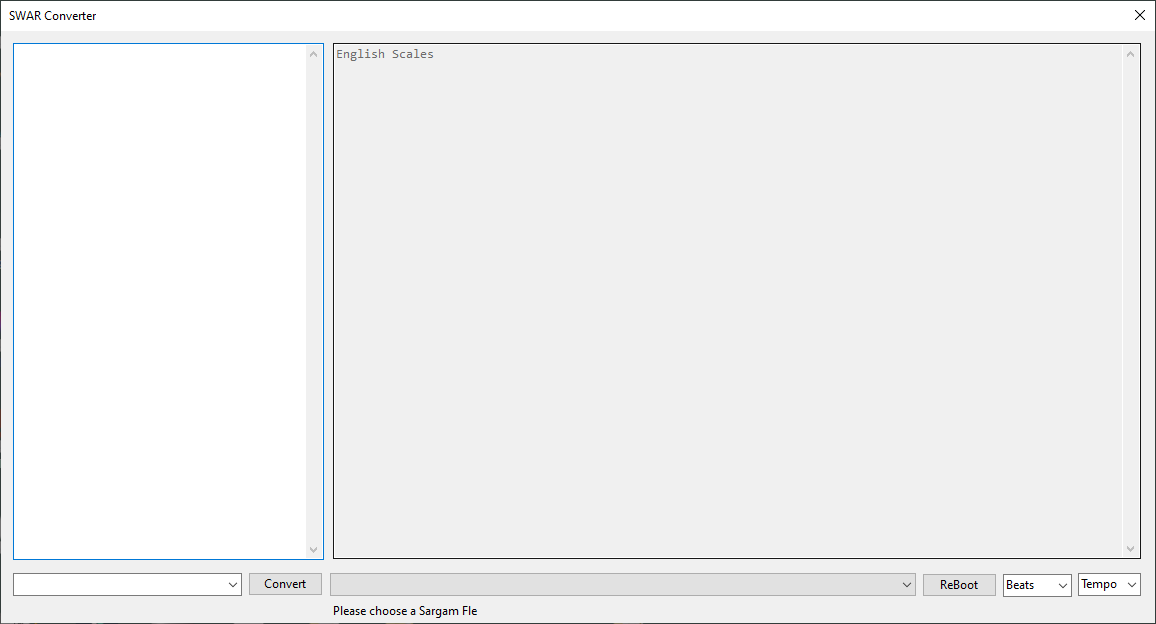
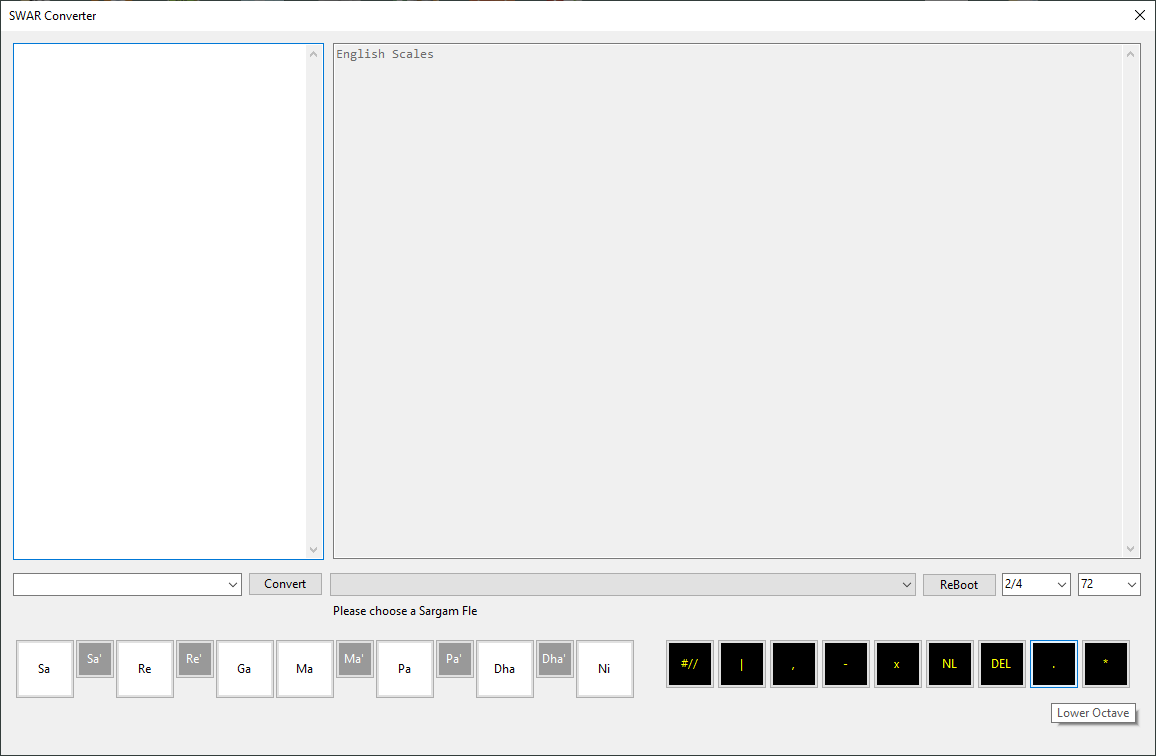
updates with a license

diff --git a/swar/dtos/Permissions.cs b/swar/dtos/Permissions.cs
@@ -21,6 +21,7 @@ namespace dtos
             // for each permission defined in the constants
             acl.Add(new Permission() { name = PermissionsList.SAVE_XPTS, authority = false, message = "Unable to produce XPT Pattern file." });
             acl.Add(new Permission() { name = PermissionsList.SAVE_SCALE, authority = false, message = "Unable to save scale file." });
+            acl.Add(new Permission() { name = PermissionsList.CONVERT_SCALES, authority = false, message = "Unable to convert scales." });
         }
 
         public void DisableAllPermissions()
@@ -36,16 +37,25 @@ namespace dtos
             switch (mode)
             {
                 case FeaturesUnlocked.DEMO:
+                    this.DisableAllPermissions();
                     this.Disallow(PermissionsList.SAVE_XPTS);
                     this.Disallow(PermissionsList.SAVE_SCALE);
+                    this.Disallow(PermissionsList.CONVERT_SCALES);
                     break;
                 case FeaturesUnlocked.FREE:
                     this.Allow(PermissionsList.SAVE_XPTS);
                     this.Allow(PermissionsList.SAVE_SCALE);
+                    this.Allow(PermissionsList.CONVERT_SCALES);
                     break;
                 case FeaturesUnlocked.PREMIUM:
-                    this.Allow(PermissionsList.SAVE_XPTS);
-                    this.Allow(PermissionsList.SAVE_SCALE);
+                    // enable all permissions
+                    foreach (Permission p in this.acl)
+                    {
+                        p.authority = true;
+                    }
+                    break;
+                default:
+                    this.DisableAllPermissions();
                     break;
             }
         }

diff --git a/swar/swar/swar.cs b/swar/swar/swar.cs
@@ -27,13 +27,23 @@ namespace swar
 
         private void button1_Click(object sender, EventArgs e)
         {
-            this.convert2scales();
+            string from = "";
+            string to = "";
+            this.convert2scales(from, to);
         }
 
-        private void convert2scales()
+        private void convert2scales(string from, string to)
         {
-            ApplicationSystem s = new ApplicationSystem();
-            textBox2.Text = s.convert(textBox1.Text, signature);
+            bool authority = acl.HasAuthority(PermissionsList.CONVERT_SCALES);
+            if (authority)
+            {
+                ApplicationSystem s = new ApplicationSystem();
+                textBox2.Text = s.convert(textBox1.Text, signature);
+            }
+            else
+            {
+                MessageBox.Show("No authority!");
+            }
         }
 
         internal void permissions(Permissions acl)
@@ -43,7 +53,9 @@ namespace swar
 
         private void textBox1_TextChanged(object sender, EventArgs e)
         {
-            this.convert2scales();
+            string from = "";
+            string to = "";
+            this.convert2scales(from, to);
         }
 
         private void textBox2_TextChanged(object sender, EventArgs e)

diff --git a/swar/swar/Program.cs b/swar/swar/Program.cs
@@ -1,5 +1,6 @@
 using configs;
 using dtos;
+using libraries;
 using System;
 using System.Windows.Forms;
 
@@ -17,8 +18,11 @@ namespace swar
             Application.EnableVisualStyles();
             Application.SetCompatibleTextRenderingDefault(false);
 
+            License license = new License();
+            int mode = license.mode(); // FeaturesUnlocked.PREMIUM
+
             Permissions acl = new Permissions();
-            acl.SetACLMode(FeaturesUnlocked.PREMIUM);
+            acl.SetACLMode(mode);
             swar converter = new swar();
             converter.permissions(acl);
 

diff --git a/swar/libraries/License.cs b/swar/libraries/License.cs
@@ -1,0 +1,23 @@
+using configs;
+using System.IO;
+
+namespace libraries
+{
+    public class License
+    {
+        public bool validate()
+        {
+            return true;
+        }
+
+        public int mode()
+        {
+            // read license.txt's mode and other details
+            // @todo read more details like: owner, expiry, validity
+            string license = File.ReadAllText(Configurations.ReadWriteDirectory + "/license.txt");
+            int mode = int.Parse(license);
+            
+            return mode;
+        }
+    }
+}

diff --git a/swar/configs/PermissionsList.cs b/swar/configs/PermissionsList.cs
@@ -2,8 +2,9 @@
 {
     public static class PermissionsList
     {
-        // verb_noun = name
+        // verb_noun = context
         public const string SAVE_XPTS = "Save XPT Patterns";
         public const string SAVE_SCALE = "Save Scale";
+        public const string CONVERT_SCALES = "Convert Scales";
     }
 }

diff --git a/README.md b/README.md
@@ -1,20 +1,31 @@
 # swar
 Convert SARGAM Notes to English Scales and XPT Pattern Files.
 
-## ReadWriteDirectory
-[Configuration File](swar/configs/Configurations.cs) reads a directory to export LMMS .xpt files.
+## Configurations
 
-## Sargams: File List
+### Read/Write Directory
+[Configuration File](swar/configs/Configurations.cs) reads a directory to export LMMS .xpt files.
+Create a Windows directory "d:/desktop/xpt". Your swar executable files can be any where.
+
+### license.txt
+Put "100" without quotes to d:/desktop/license.txt file for features unblocked to premium.
+
+### Sargams: File List
+Create d:/desktop/xpt/sargams.txt file with a full path to a sargam note.
 When the application starts, it reads the sargam notations from `sargams.txt` file.
 Each line mentions a full path of a sargam note.
 A `#` character can be used as a comment, when used in the front of the line.
+Make sure that the full path is valid, and sargam note exists.
+Recommended file name is: "notations-sargams.txt".
 
 ## To use with LMMS Software
 The purpose of this application is to produce LMMS based XML Pattern File named .xpt.
 Every sargam file it reads will be converted into lmms.xpt.
 For more details on LMMS, [visit here](https://lmms.io/).
 
-For more details on XML Handler, [see here](swar/libraries/XMLHandler.cs).
+* For more details on XML Handler, [see here](swar/libraries/XMLHandler.cs).
+* For more details on File formatter, [see here](swar/libraries/Formatter.cs).
+* For more details on SARGAMs replacer, [see here](swar/libraries/Replacer.cs).
 
 # Software Interface
 ![SWAR Interface](interface.png)
@@ -26,12 +37,10 @@ Right: English scales will be auto converted and formatted.
 Also, it will write `lmms-*.xpt` chunk files.
 You can later import these xpt xmls directly in the piano roll.
 
-Bottom Left: Proposed source format chooser.
-
-Bottom Right: sargams.txt contents.
-
-Beats: Proposed pupular Time Signatures.
-
-Tempo: Proposed pupular tempos.
-
-This is a work in progress, and any content, documentation, source code, compiled binaries, etc. are subject to change.
+* Bottom Left: Proposed source format chooser.
+* Bottom Right: sargams.txt contents.
+* Beats: Proposed pupular Time Signatures.
+* Tempo: Proposed pupular tempos.
+* Piano Keyboard: Clicking here will added a corresponding sargam note.
+* Special keys: This will also enter the contents in the sargam editor.
+* This is a work in progress, and any content, documentation, source code, compiled binaries, etc. are subject to change.
